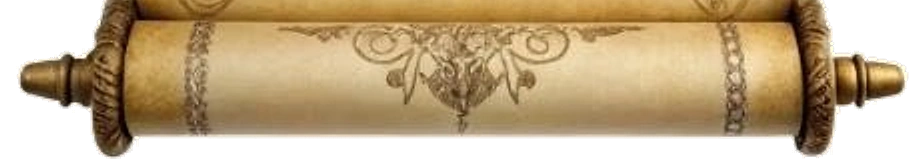
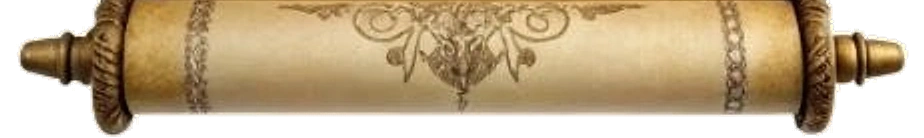
fix: trim duplicate page flourish flaps from bottom and top rod assets for pristine cylinder silhouette

diff --git a/src/app/components/intro-scene/intro-scene.component.ts b/src/app/components/intro-scene/intro-scene.component.ts
@@ -73,7 +73,7 @@ type SceneStep = 'loading' | 'rolled' | 'unrolling' | 'text' | 'completed';
                   src="assets/images/scroll-rod-top.webp"
                   alt=""
                   width="924"
-                  height="174"
+                  height="160"
                   class="rod-img"
                   aria-hidden="true"
                 />
@@ -109,7 +109,7 @@ type SceneStep = 'loading' | 'rolled' | 'unrolling' | 'text' | 'completed';
                   src="assets/images/scroll-rod-bottom.webp"
                   alt=""
                   width="924"
-                  height="160"
+                  height="138"
                   class="rod-img"
                   aria-hidden="true"
                 />
@@ -189,13 +189,13 @@ type SceneStep = 'loading' | 'rolled' | 'unrolling' | 'text' | 'completed';
       overflow: hidden;
 
       /* Mathematical sizing calculations based on royal scroll proportions */
-      --scroll-w: min(92vw, calc(82vh * 924 / 1248), 640px);
+      --scroll-w: min(92vw, calc(82vh * 924 / 1212), 640px);
       --rod-w: var(--scroll-w);
       --paper-w: calc(var(--scroll-w) * 664 / 924);
       --paper-h: calc(var(--paper-w) * 914 / 664);
-      --rod-top-h: calc(var(--scroll-w) * 174 / 924);
-      --rod-bot-h: calc(var(--scroll-w) * 160 / 924);
-      --overlap: calc(var(--scroll-w) * 14 / 924);
+      --rod-top-h: calc(var(--scroll-w) * 160 / 924);
+      --rod-bot-h: calc(var(--scroll-w) * 138 / 924);
+      --overlap: calc(var(--scroll-w) * 6 / 924);
     }
 
     /* Background Aesthetics */
